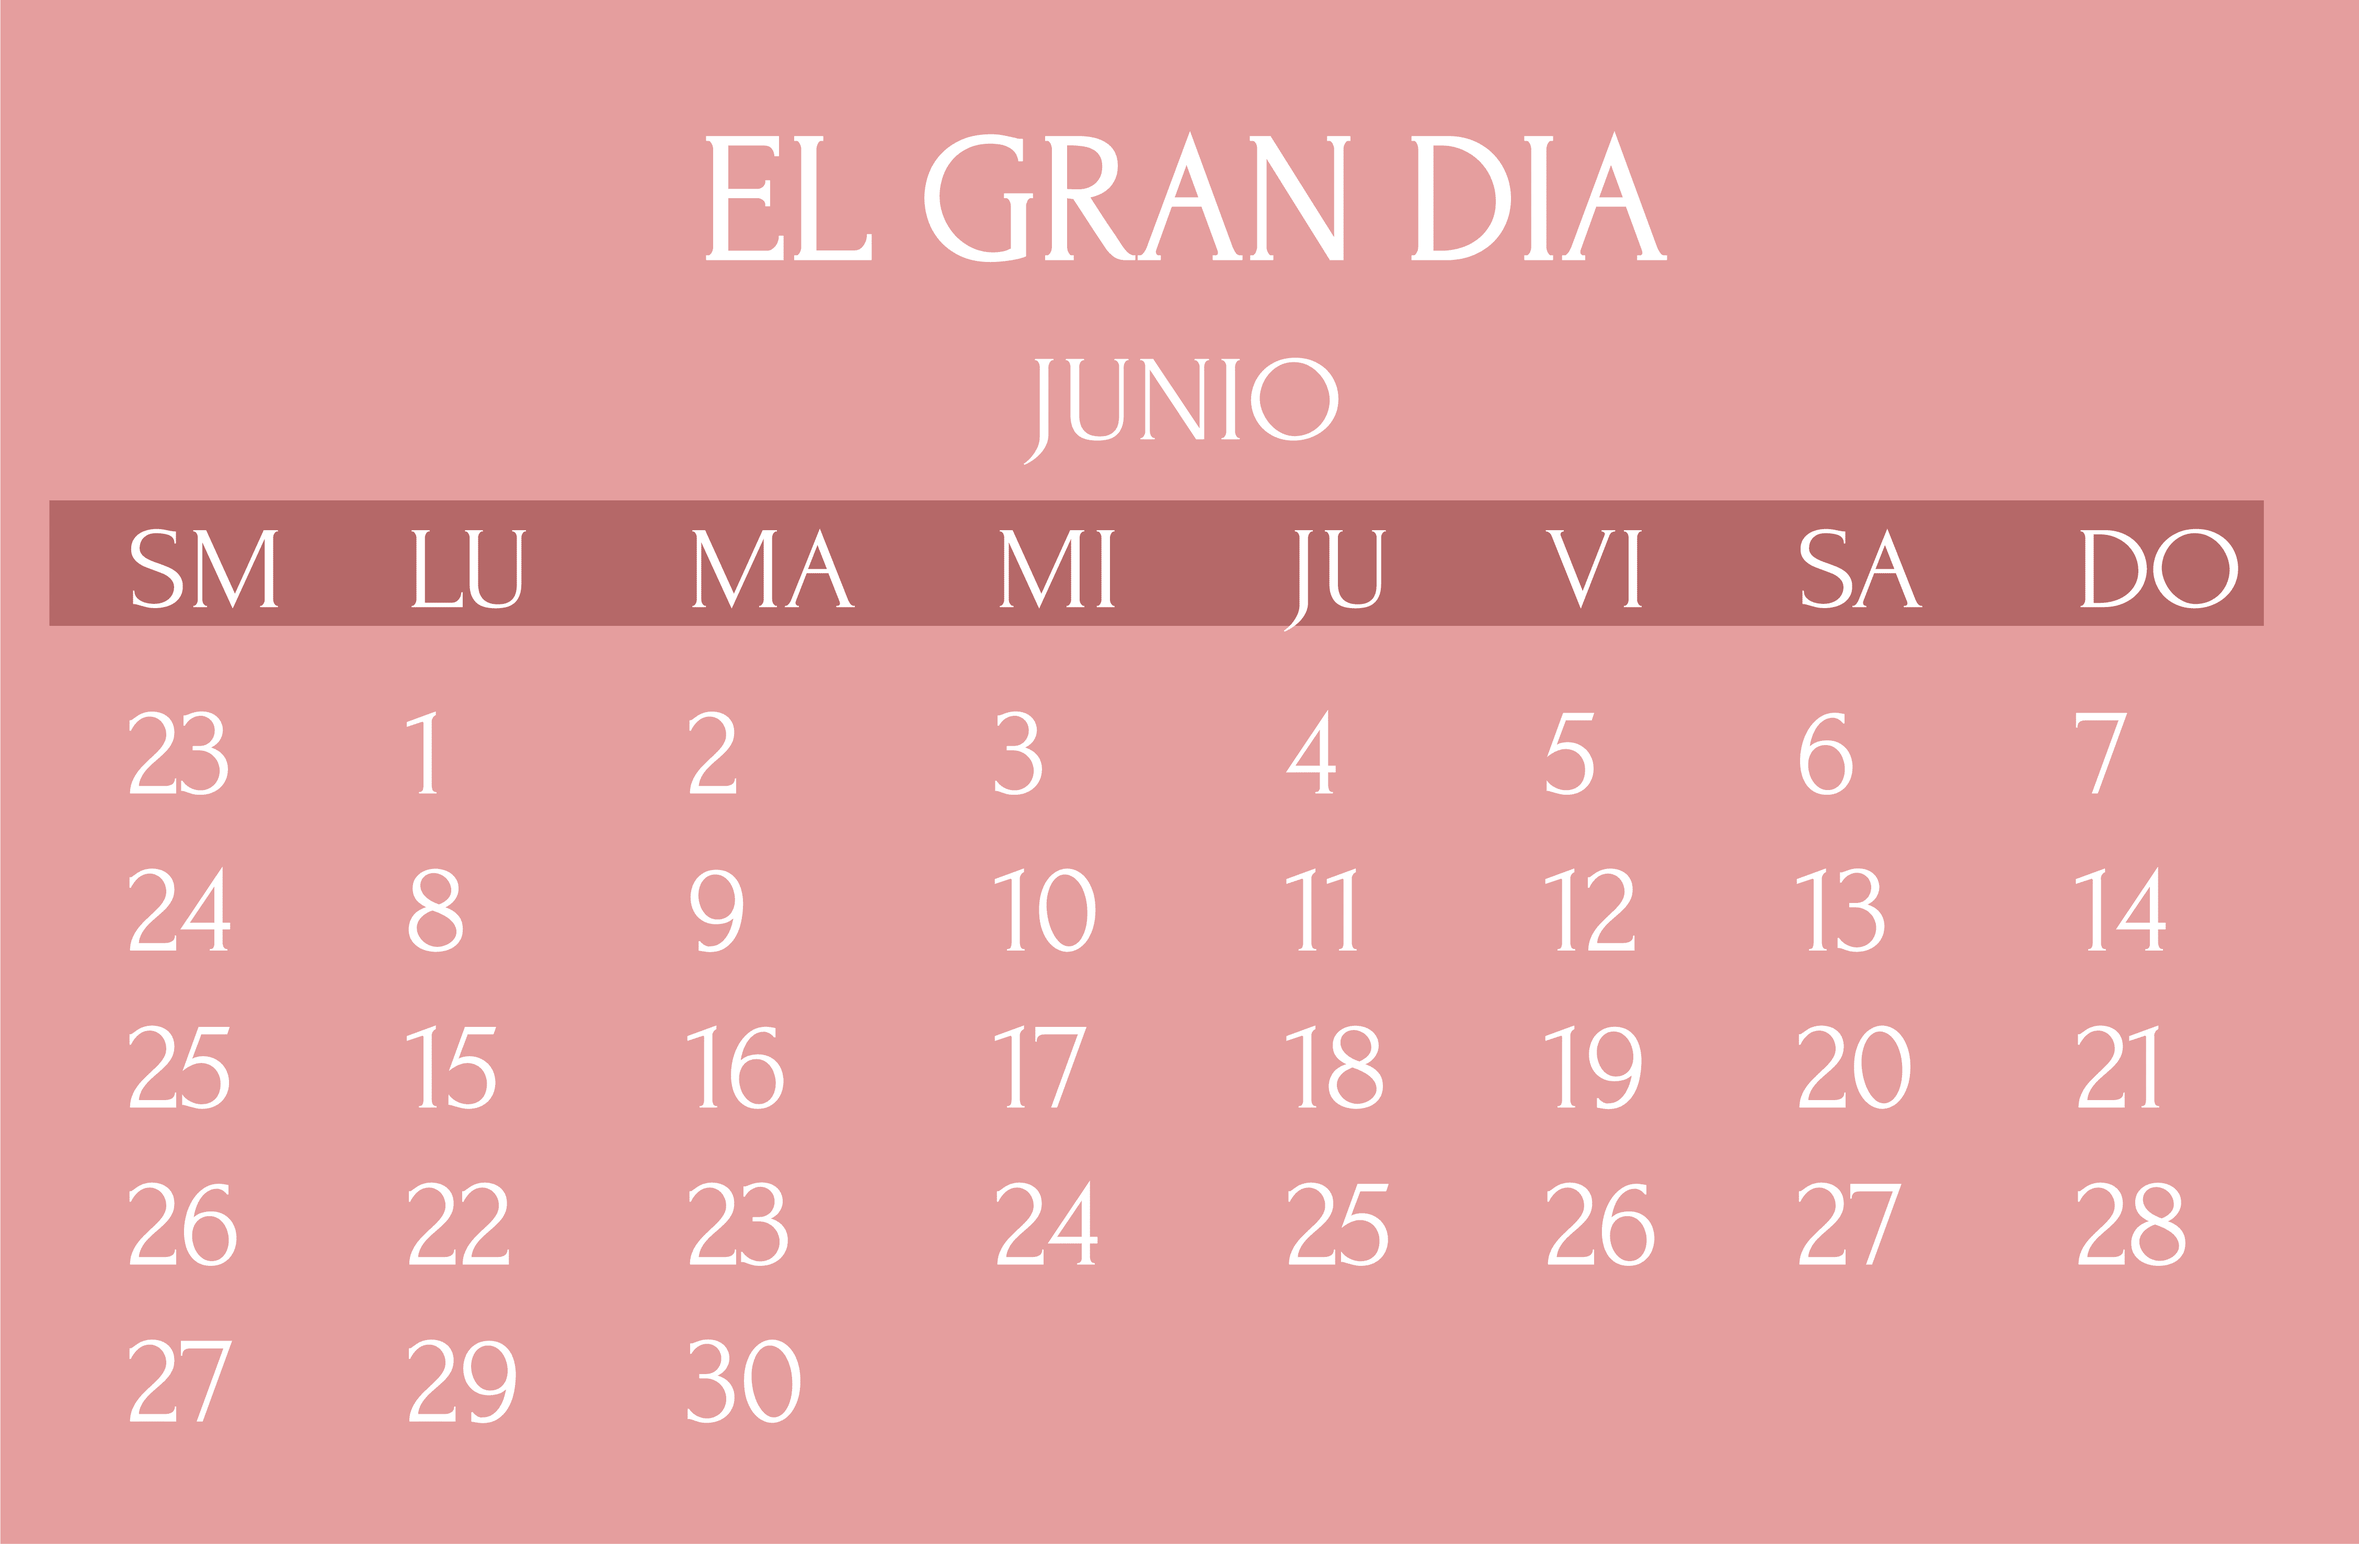
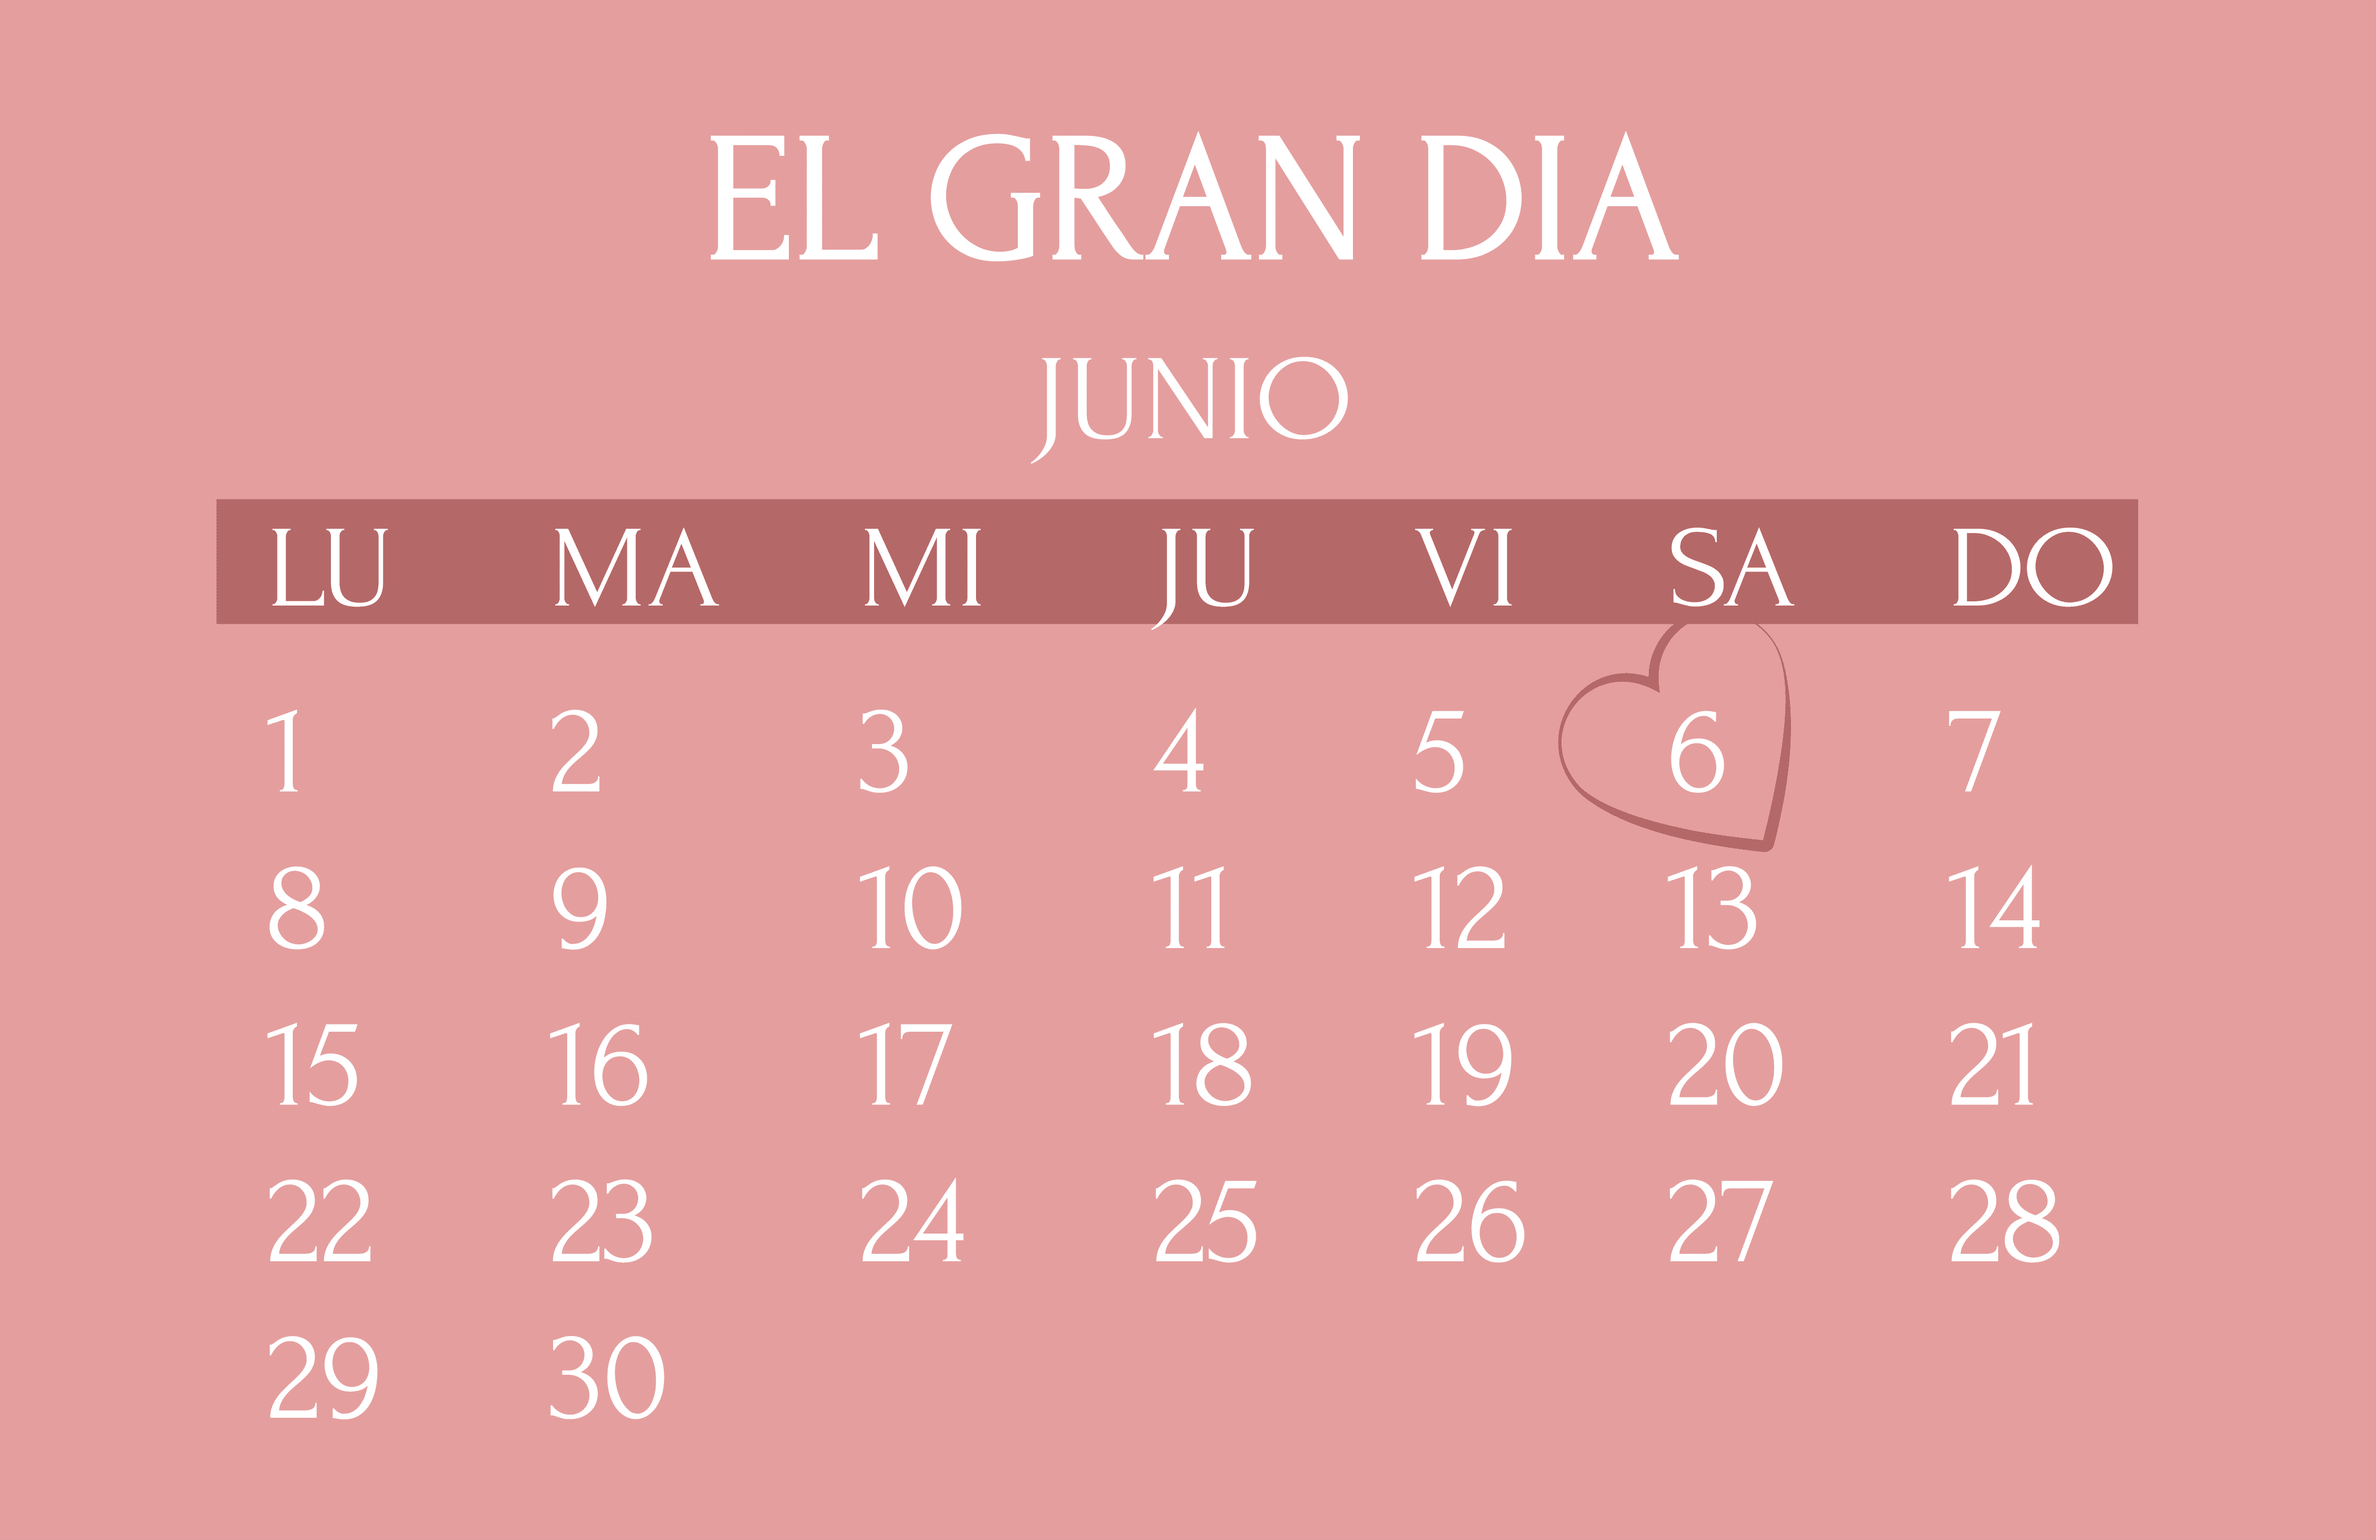
calendar fixed

diff --git a/index.html b/index.html
@@ -94,9 +94,8 @@
     <!--fin de contador-->
     <div class="contenedor-calendario">
       <img src="img/recurso 06_Mesa de trabajo 1.png" alt="calendario" class="calendario">
-      <img src="img/corazón.png" alt="corazón" class="corazon">
     </div>
-    <img src="img/recurso 07.png" alt="segunda foto" class="imagen-3">
+    <img src="img/recurso 07.png" alt="segundas foto" class="imagen-3">
     <div class="imagen-flor">
       <img src="img/recurso 08.png" alt="ubicación y horario" class="ubicacion">
       <img src="img/flor derecha.png" alt="flor derecha" class="flor-derecha">

diff --git a/styles/desktop.css b/styles/desktop.css
@@ -362,12 +362,6 @@
         margin-top: 20px;
     }
 
-    .corazon {
-        position: absolute;
-        width: 3dvw;
-        top: 49.4%;
-        right: 25.5%;
-    }
 
     .imagen-3 {
         width: 40dvw;
